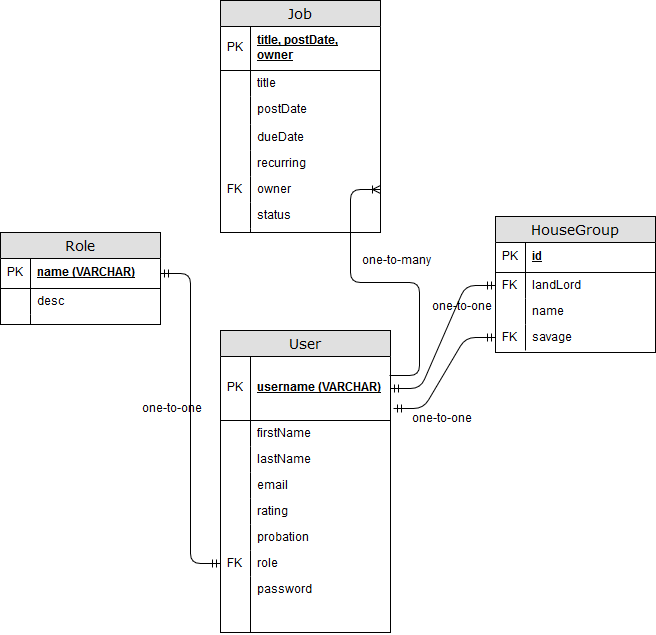
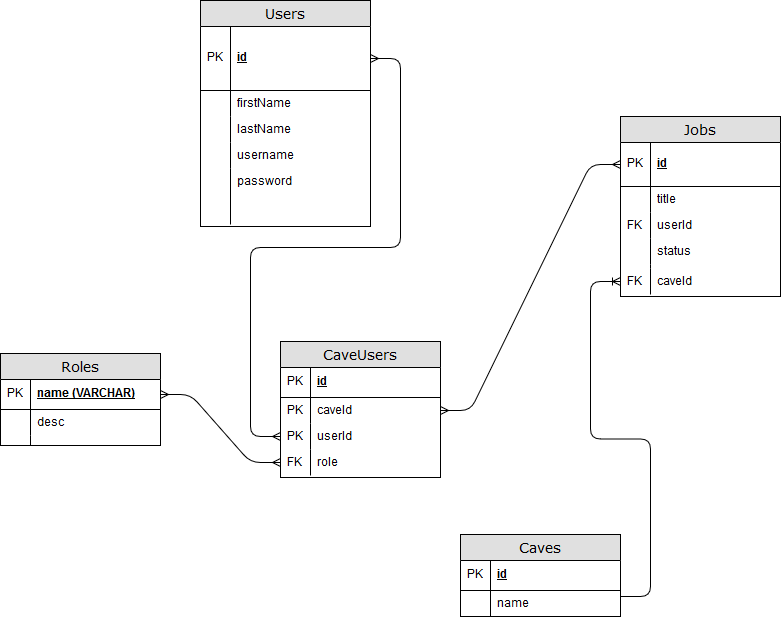
change seqeulize model associations. user-cave many to many using CaveUser. CaveUser-role one to one. user-job one to many. cave-job one to many.

diff --git a/sequelize.js b/sequelize.js
@@ -13,35 +13,44 @@ const Sequelize = require('sequelize'),
     User = UserModel(sequelize,Sequelize),
     Job = JobModel(sequelize,Sequelize),
     Role = RoleModel(sequelize,Sequelize),
-    Cave = CaveModel(sequelize,Sequelize);
+    Cave = CaveModel(sequelize,Sequelize),
+    CaveUser = sequelize.define('CaveUser', {});
 
 //Set all relationships
     //jobs one to one user
-Job.belongsTo(User);
+Job.belongsTo(User,{foreignKey: 'userId' });
+Job.belongsTo(Cave, {foreignKey: 'caveId' });
 //User.hasMany(Job, {foreignKey:'wah'});
 
     //roles
-Role.hasMany(User, {foreignKey: 'role'});
+//Role.hasMany(User, {foreignKey: 'role'});
 
     //Cave
 // User.hasMany(Cave, {foreignKey: 'savage'});
 //User.hasOne(Cave, {foreignKey: 'landLord'}); 
-Cave.hasMany(User, {foreignKey: 'caveId'}); // want the table id on the user table
+//Cave.hasMany(User, {foreignKey: 'caveId'}); // want the table id on the user table
 
-sequelize.sync({})//creates tables if they have not been created.({force: true} as a param will clear all tables)
+    //cave-user relationship. many to many
+User.belongsToMany(Cave, { through: CaveUser, unique: false, foreignKey: 'caveId' });
+Cave.belongsToMany(User, { through: CaveUser, unique: false, foreignKey: 'userId' });
+
+Role.hasOne(CaveUser, { foreignKey: 'role'});
+
+
+sequelize.sync({force:true})//creates tables if they have not been created.({force: true} as a param will clear all tables)
   .then(() => {
     console.log(`Database & tables created!`);
   });
 
-  // //create roles to
-  // Role.create({
-  //   name: 'Land Lord',
-  //   desc:'admin'
-  // });
-  // Role.create({
-  //   name: 'Savage',
-  //   desc:'user'
-  // });
+  //create roles to
+  Role.create({
+    name: 'Land Lord',
+    desc:'admin'
+  });
+  Role.create({
+    name: 'Savage',
+    desc:'user'
+  });
 module.exports = {
   User,
   Job,

diff --git a/models/User.js b/models/User.js
@@ -21,8 +21,8 @@ module.exports = function(sequelize,DataTypes) {
             unique: true
         },
         password:{
-        type: DataTypes.STRING,
-        AllowNull:false
+            type: DataTypes.STRING,
+            AllowNull:false
         }
     });
 
